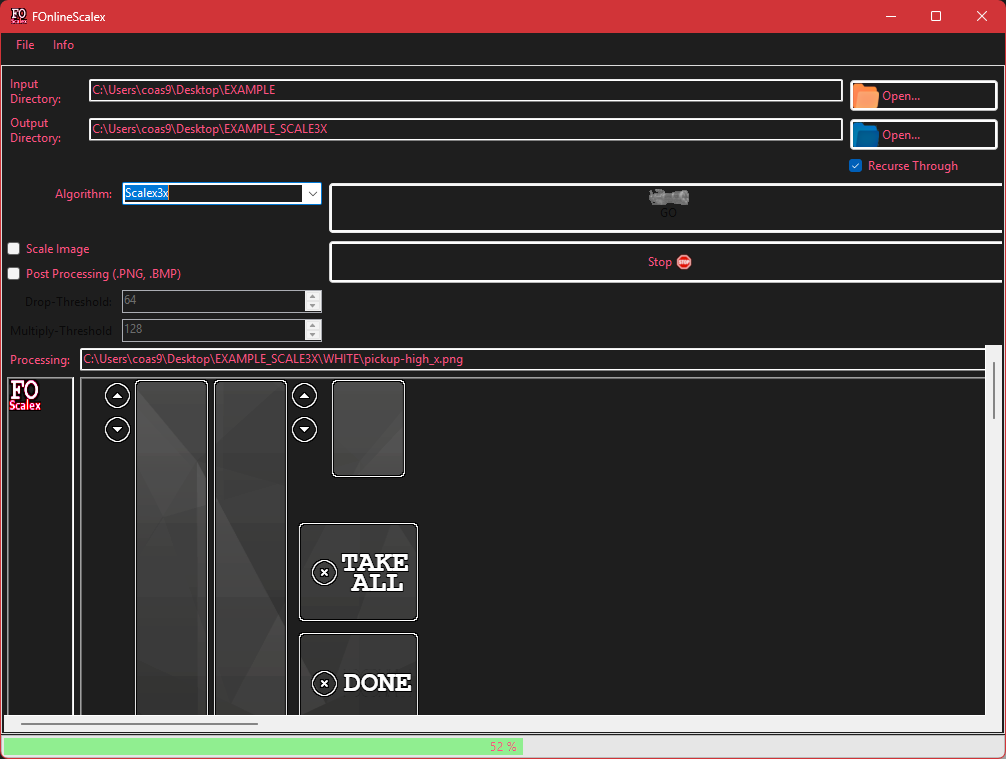
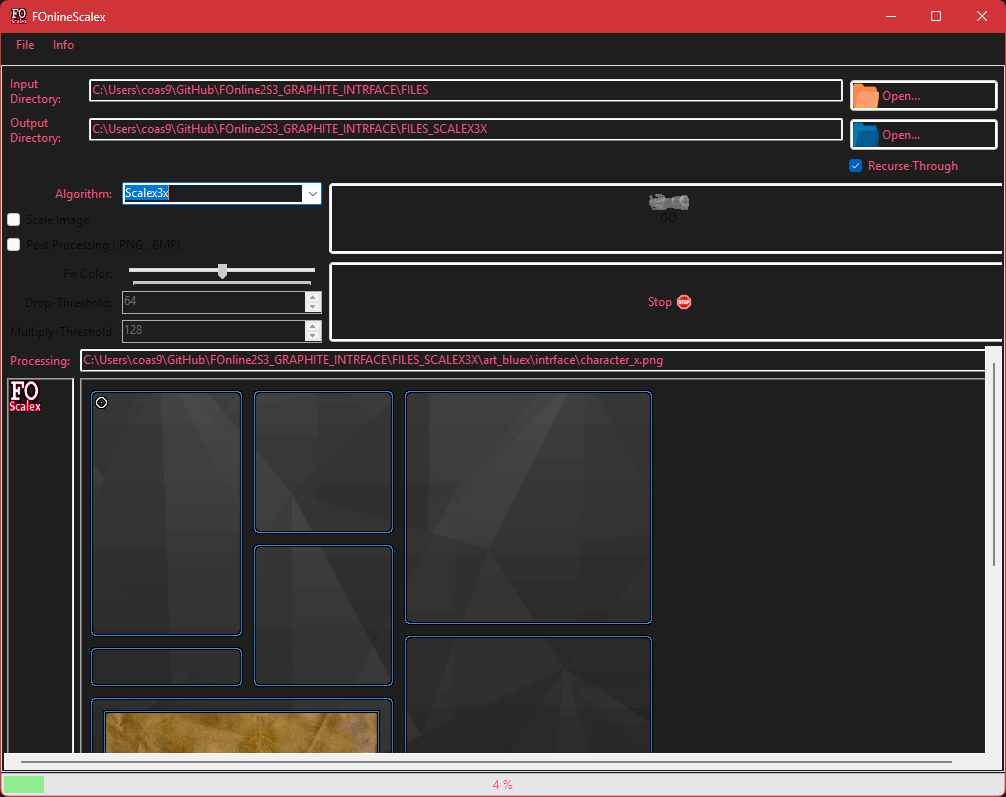
Upload new screens. Some fixes on form.

diff --git a/MainForm.Designer.cs b/MainForm.Designer.cs
@@ -121,14 +121,14 @@ namespace FOnlineScalex
             // aboutToolStripMenuItem
             // 
             aboutToolStripMenuItem.Name = "aboutToolStripMenuItem";
-            aboutToolStripMenuItem.Size = new Size(180, 22);
+            aboutToolStripMenuItem.Size = new Size(137, 22);
             aboutToolStripMenuItem.Text = "About";
             aboutToolStripMenuItem.Click += aboutToolStripMenuItem_Click;
             // 
             // howToUseToolStripMenuItem
             // 
             howToUseToolStripMenuItem.Name = "howToUseToolStripMenuItem";
-            howToUseToolStripMenuItem.Size = new Size(180, 22);
+            howToUseToolStripMenuItem.Size = new Size(137, 22);
             howToUseToolStripMenuItem.Text = "How To Use";
             howToUseToolStripMenuItem.Click += howToUseToolStripMenuItem_Click;
             // 
@@ -498,7 +498,7 @@ namespace FOnlineScalex
             lblFixCol.Name = "lblFixCol";
             lblFixCol.Size = new Size(109, 30);
             lblFixCol.TabIndex = 24;
-            lblFixCol.Text = "Fix Color";
+            lblFixCol.Text = "Fix Color:";
             lblFixCol.TextAlign = ContentAlignment.MiddleRight;
             // 
             // MainForm

diff --git a/MainForm.cs b/MainForm.cs
@@ -127,11 +127,13 @@ namespace FOnlineScalex
 
             this.cboxScale.Enabled = true;
             this.cboxPostProc.Enabled = true;
-            this.lblDropThres.Enabled = true;
-            this.lblMulThres.Enabled = true;
-            this.numericAlphaDropThres.Enabled = true;
-            this.numericAlphaMulThres.Enabled = true;
-            this.trackBarFixColVal.Enabled = true;
+            
+            this.lblDropThres.Enabled = this.cboxPostProc.Checked;
+            this.lblMulThres.Enabled = this.cboxPostProc.Checked;
+            this.lblFixCol.Enabled = this.cboxPostProc.Checked;
+            this.numericAlphaDropThres.Enabled = this.cboxPostProc.Checked;
+            this.numericAlphaMulThres.Enabled = this.cboxPostProc.Checked;
+            this.trackBarFixColVal.Enabled = this.cboxPostProc.Checked;
 
             progBar.Value = 0;
         }
